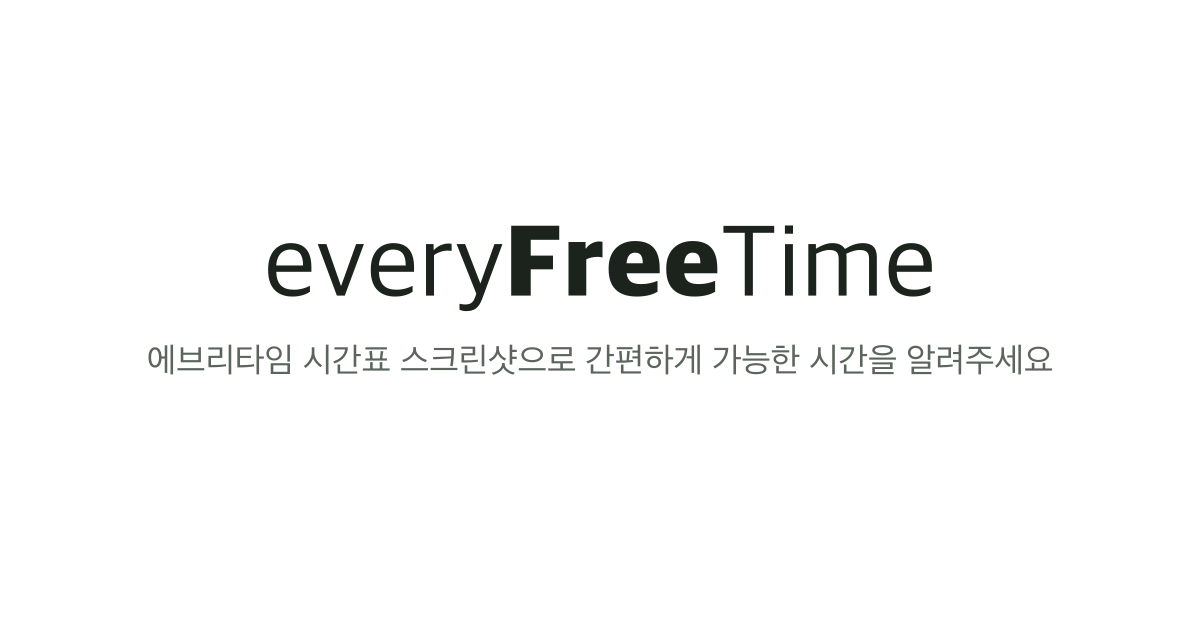
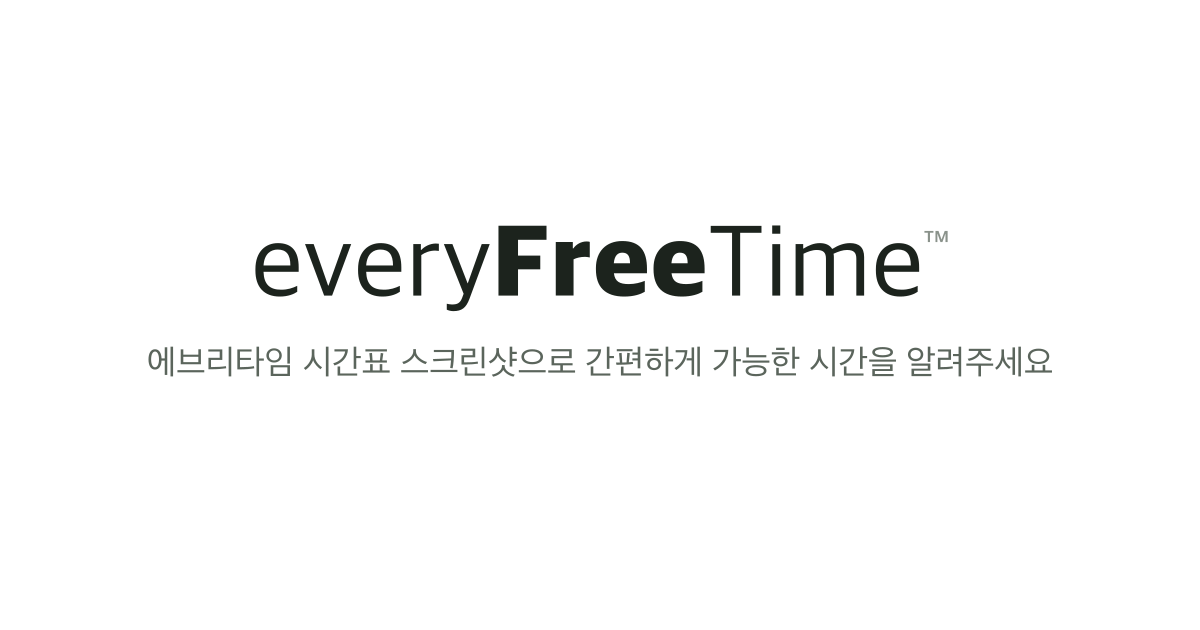
로고·푸터·OG 워드마크에 ™ 추가

Changed region(s): [[0.2158, 0.3619, 0.8017, 0.5127], [0.1233, 0.5429, 0.8942, 0.6032]]

diff --git a/src/components/NicknamePicker.tsx b/src/components/NicknamePicker.tsx
@@ -32,14 +32,14 @@ export default function NicknamePicker({ takenSlugs, onConfirm, onCancel }: Prop
         />
       </label>
       {raw.length > 0 && !check.ok && <p className="text-xs text-cta">{check.error}</p>}
-      {taken && <p className="text-xs text-cta">이 방에서 이미 쓰는 이름이에요</p>}
+      {taken && <p className="text-xs text-cta">이 방에서 이미 사용중인 이름이에요</p>}
       {check.ok && !taken && (
-        <p className="text-xs text-ink/50">링크에는 “{check.slug}” 로 들어가요</p>
+        <p className="text-xs text-ink/50">링크에는 “{check.slug}” (으)로 들어가요</p>
       )}
-      <p className="text-xs text-ink/40">이 이름은 방에 참여한 사람들 모두에게 보여요.</p>
+      <p className="text-xs text-ink/40">이 이름은 방에 참여한 사람들 모두에게 보여요. 조심해서 작성해주세요.</p>
 
       <Checkbox
-        label="PIN 4자리 설정 (다른 기기에서 수정할 때 씀)"
+        label="PIN 4자리 설정 (다른 기기에서 수정할 때 사용)"
         checked={usePin}
         onChange={(e) => setUsePin(e.target.checked)}
       />

diff --git a/src/components/Logo.tsx b/src/components/Logo.tsx
@@ -4,7 +4,7 @@ interface Props {
   className?: string;
 }
 
-// everyFreeTime — 프리텐다드, 전체 일반체 / "Free"만 볼드
+// everyFreeTime™ — 프리텐다드, 전체 일반체 / "Free"만 볼드
 export default function Logo({ className = 'text-2xl' }: Props) {
   return (
     <Link
@@ -13,6 +13,7 @@ export default function Logo({ className = 'text-2xl' }: Props) {
       aria-label="everyFreeTime 홈으로"
     >
       every<span className="font-bold">Free</span>Time
+      <sup className="ml-0.5 align-super text-[0.55em] text-ink/50">™</sup>
     </Link>
   );
 }

diff --git a/src/components/Footer.tsx b/src/components/Footer.tsx
@@ -9,6 +9,7 @@ export default function Footer() {
       <div className="mx-auto flex max-w-4xl flex-col gap-2 px-5 py-8 text-xs text-ink/45">
         <div className="font-normal tracking-tight text-ink/70">
           every<span className="font-bold">Free</span>Time
+          <sup className="ml-0.5 align-super text-[0.6em] text-ink/40">™</sup>
         </div>
         <div className="flex flex-wrap items-center gap-x-3 gap-y-1">
           <span>© {YEAR} Jiwon Jeong</span>

diff --git a/src/components/ImageUploader.tsx b/src/components/ImageUploader.tsx
@@ -29,7 +29,7 @@ export default function ImageUploader({ onImage }: Props) {
       }}
     >
       <p className="text-sm text-ink/60">
-        에타 시간표 스크린샷을 올려주세요. 이미지는 이 브라우저를 벗어나지 않습니다.
+        에타 시간표 스크린샷을 올려주세요. 이미지는 서버로 전송 또는 서버에 저장되지 않으니 안심하세요.
       </p>
       <input
         ref={inputRef}
